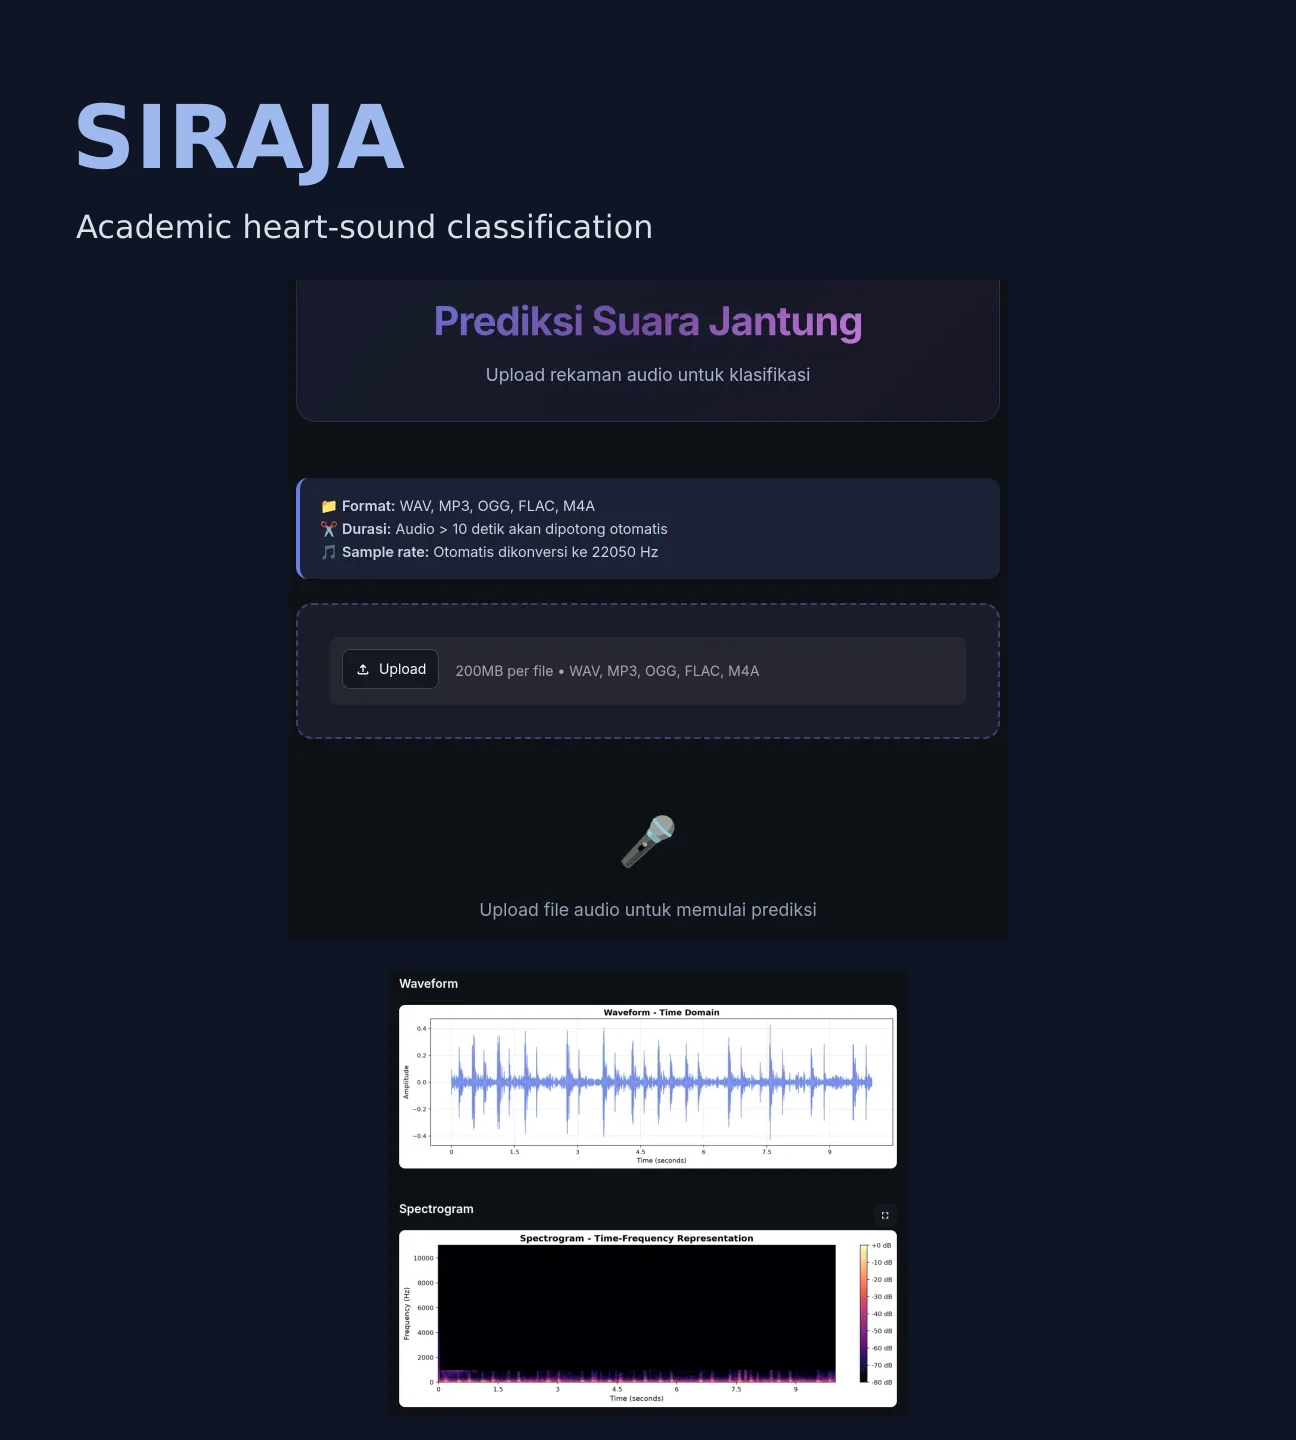
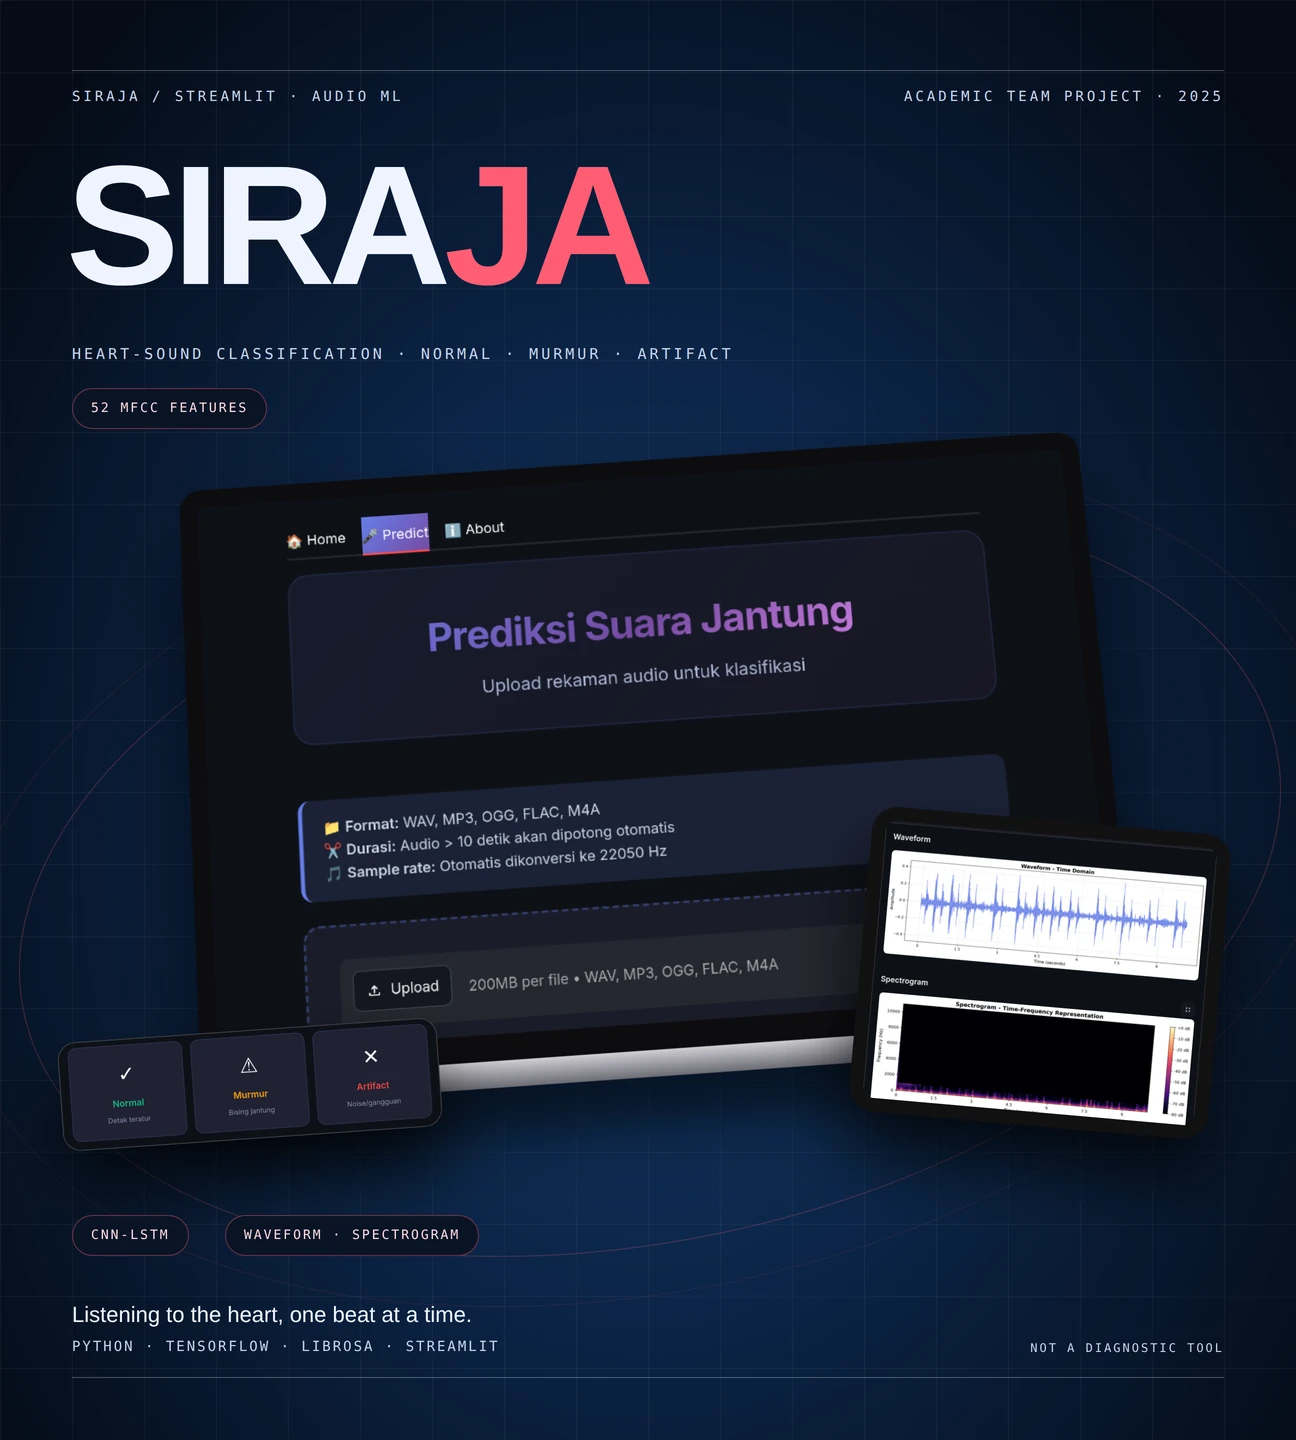
fix(portfolio): restore device mockup covers for SIRAJA and EmotiScan

diff --git a/lib/content.ts b/lib/content.ts
@@ -329,7 +329,7 @@ export const projects: Project[] = [
     cover: covers[0],
     image: {
       src: "/projects/siraja.webp",
-      alt: "SIRAJA audio-upload interface and actual waveform and spectrogram captures on a dark blue background.",
+      alt: "SIRAJA cover: heart-sound prediction page in a laptop mockup, with a tablet showing waveform and spectrogram and a card of the Normal, Murmur and Artifact classes, on a dark blue background.",
       width: 1296,
       height: 1440,
     },
@@ -364,7 +364,7 @@ export const projects: Project[] = [
     cover: covers[1],
     image: {
       src: "/projects/emotiscan.webp",
-      alt: "EmotiScan empty image-upload and camera-permission interfaces captured locally, with no faces or prediction results.",
+      alt: "EmotiScan cover: camera-mode interface in a laptop mockup with tablets showing the class distribution and confusion matrix, on a dark purple background; no face or prediction result shown.",
       width: 1296,
       height: 1440,
     },
